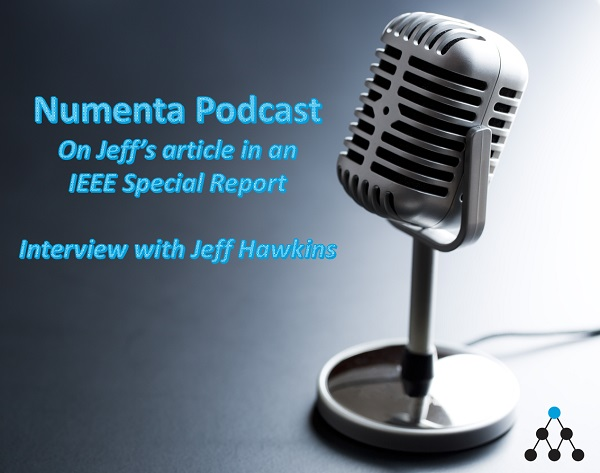
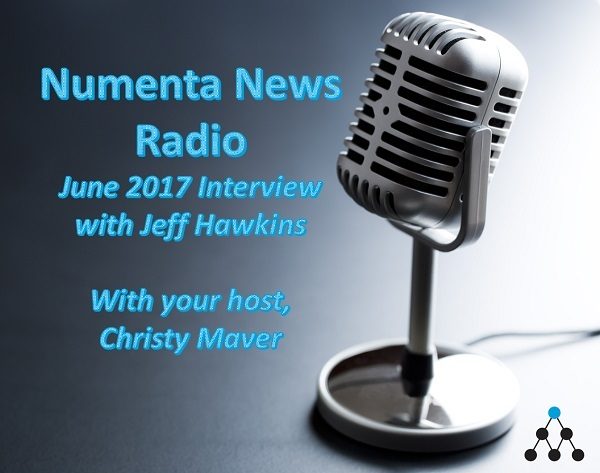
New image and soundcloud url

Changed region(s): [[0.03, 0.1184, 0.57, 0.5624], [0.15, 0.592, 0.48, 0.7696]]

diff --git a/packages/numenta.com/pages/blog/2017/06/IEEE-special-edition-article-by-Jeff.md b/packages/numenta.com/pages/blog/2017/06/IEEE-special-edition-article-by-Jeff.md
@@ -8,7 +8,7 @@ org: Director of Marketing
 tags: numenta Jeff Hawkins machine intelligence
 title: "New Article by Jeff Hawkins Appears in IEEE Spectrum Special Report"
 type: post
-sound: https://soundcloud.com/numenta/interview-with-jeff-hawkins-ieee-special-report
+sound: https://soundcloud.com/numenta/interview-with-jeff-hawkins-ieee
 ---
 
 IEEE Spectrum, the flagship magazine and website of the Institute of Electrical and Electronics
